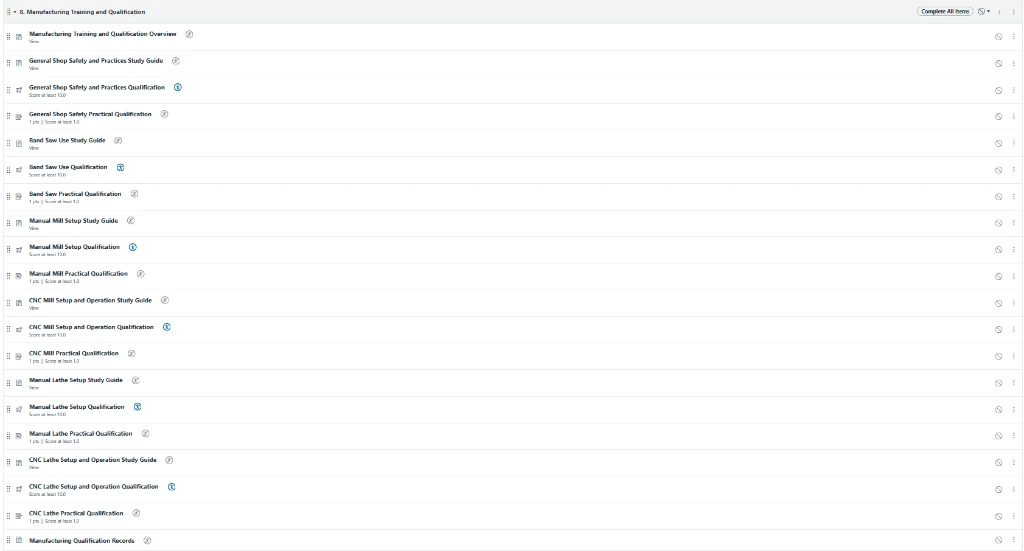
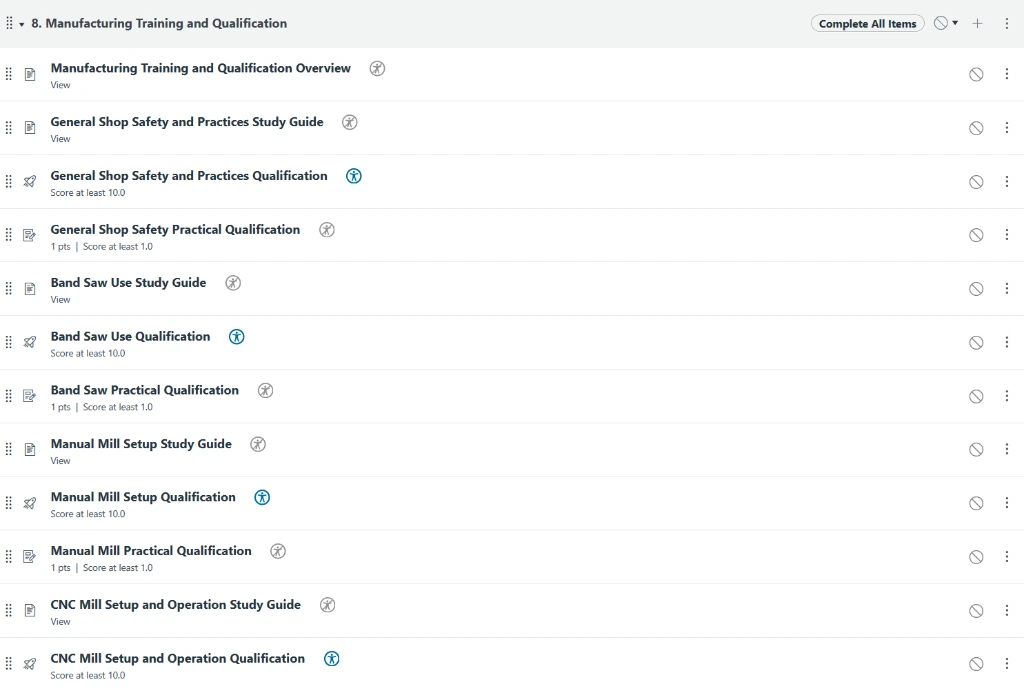
fix: sanitize quiz screenshot, replace module crop, clarify pigeon attribution, and fix lightbox focus

diff --git a/index.html b/index.html
@@ -139,7 +139,8 @@
 
     // Inline image gallery grid if images exist
     if (portfolioEntry.images && portfolioEntry.images.length) {
-      const imagesGridContainer = createHtmlElement("div", "project-images-grid");
+      const gridClass = "project-images-grid" + (portfolioEntry.images.length === 4 ? " grid-4" : "");
+      const imagesGridContainer = createHtmlElement("div", gridClass);
       portfolioEntry.images.forEach((imageMetadata) => {
         const imageCardWrapper = createHtmlElement("figure", "project-image-card");
         const imageContainerElement = createHtmlElement("div", "project-image-container");
@@ -428,7 +429,9 @@
     lightboxCaptionElement.textContent = imageCaptionText || imageAlternativeText;
     lightboxModalElement.classList.add("active");
     document.body.style.overflow = "hidden";
-    lightboxCloseButtonElement.focus();
+    requestAnimationFrame(() => {
+      lightboxCloseButtonElement.focus();
+    });
     document.addEventListener("keydown", handleLightboxKeyDown);
   }
 

diff --git a/styles.css b/styles.css
@@ -331,6 +331,10 @@ h2 {
   margin-top: 1rem;
 }
 
+.project-images-grid.grid-4 {
+  grid-template-columns: repeat(2, 1fr);
+}
+
 .project-image-card {
   margin: 0;
   display: flex;
@@ -365,21 +369,23 @@ h2 {
 }
 
 .project-image-caption {
-  font-size: 0.75rem;
+  font-size: 0.8rem;
   color: var(--muted);
-  line-height: 1.35;
-  margin-top: 0.35rem;
+  line-height: 1.4;
+  margin-top: 0.4rem;
 }
 
 @media (min-width: 24rem) and (max-width: 50rem) {
-  .project-images-grid {
+  .project-images-grid,
+  .project-images-grid.grid-4 {
     grid-template-columns: repeat(2, minmax(0, 1fr));
     gap: 0.75rem;
   }
 }
 
 @media (max-width: 23.99rem) {
-  .project-images-grid {
+  .project-images-grid,
+  .project-images-grid.grid-4 {
     grid-template-columns: 1fr;
     gap: 0.75rem;
   }

diff --git a/data.js b/data.js
@@ -138,12 +138,12 @@ const DATA = {
         {
           src: "images/pigeon-tail.webp",
           alt: "UAV V-tail and landing gear mount design detail",
-          caption: "V-tail and landing gear mount concept detail",
+          caption: "Team-produced V-tail concept render shown for project context",
         },
         {
           src: "images/pigeon-motor.webp",
           alt: "Testing brushless motor weight on digital scale (1186g)",
-          caption: "Digital scale bench testing of brushless motor (1186g)",
+          caption: "Team bench-test photo shown for project context",
         },
       ],
     },

diff --git a/STANDARDS.md b/STANDARDS.md
@@ -59,11 +59,18 @@ that one person with a text editor can maintain this.
   org: "Where it happened",
   dates: "Sep 2026 to present",
   featured: true,                                    // false for compact secondary projects
-  role: "What you personally did and decided",       // e.g. "Product direction, architecture, testing"
-  tech: ["C#", ".NET", "PowerToys SDK"],             // project dependencies, not personal skill claims
+  role: ["Product direction", "Architecture"],       // what you personally did and decided
+  tech: ["C#", ".NET", "PowerToys Command Palette SDK"], // project dependencies, not personal skill claims
   method: "AI-assisted development",                 // optional, e.g. "AI-assisted development"
   body: "One paragraph. Concrete details, what the system does, and what YOU did.",
   link: { label: "Source", href: "https://..." },   // delete this line if none
+  images: [                                          // optional image gallery
+    {
+      src: "images/example.webp",
+      alt: "Descriptive alt text for accessibility",
+      caption: "Short explanatory caption shown below thumbnail and in lightbox",
+    },
+  ],
 },
 ```
 
@@ -95,8 +102,7 @@ you do not add nav links by hand.
 ```js
 {
   category: "Group Name",
-  type: "working", // "working", "foundational", "workflow", or "learning"
-  items: ["Skill 1", "Skill 2"],
+  items: ["Skill 1", "Skill 2", "Skill 3"],
 }
 ```
 
